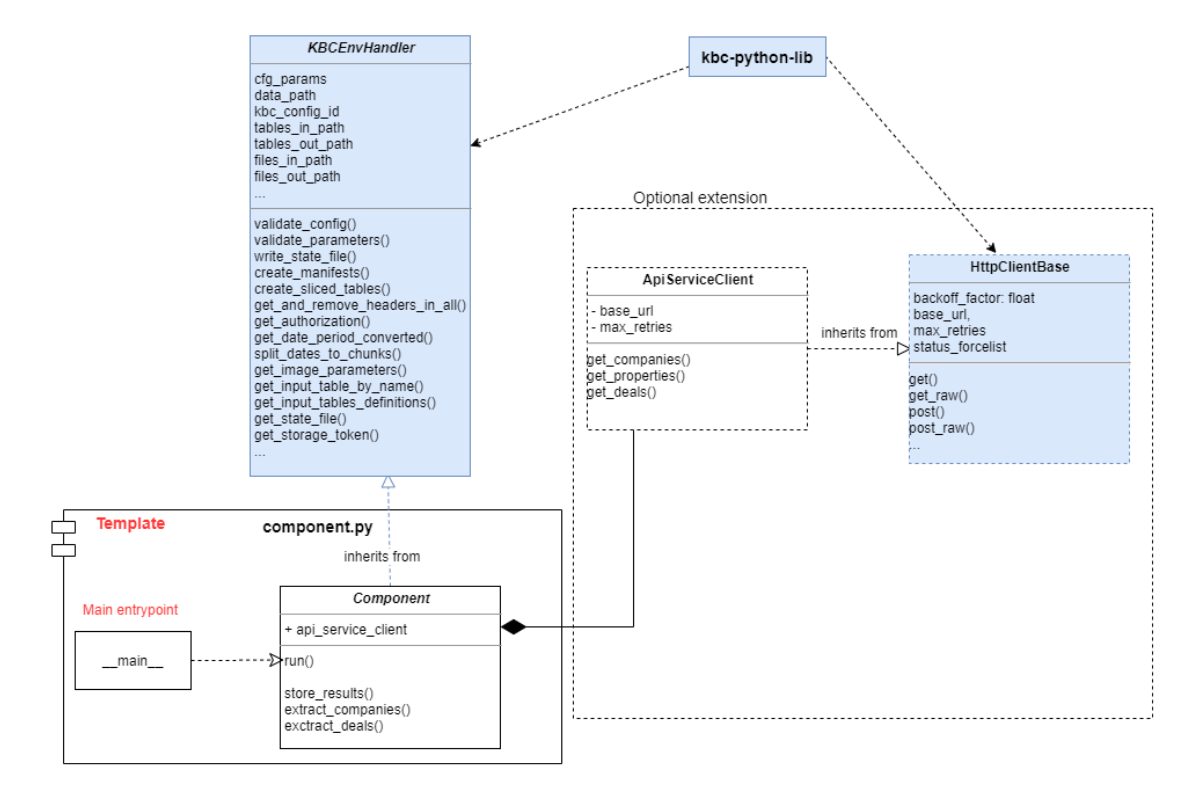
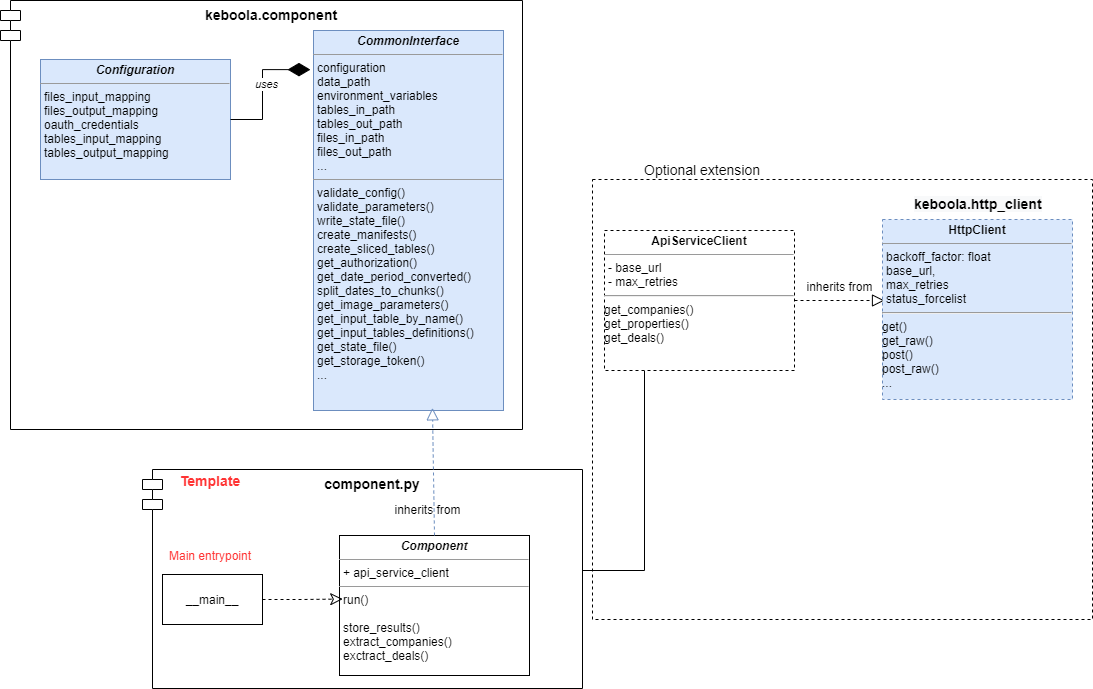
UPDATE readme

diff --git a/README.md b/README.md
@@ -4,42 +4,40 @@ Python template for KBC Component creation. Defines the default structure and al
 
 Use as a starting point when creating a new component.
 
-Example uses [keboola-python-util-lib](https://bitbucket.org/kds_consulting_team/keboola-python-util-lib/src/master/) library providing useful methods for KBC related tasks and boilerplate methods often needed by components, for more details see [documentation](https://bitbucket.org/kds_consulting_team/keboola-python-util-lib/src/master/README.md)
+Example uses [keboola.component](https://pypi.org/project/keboola.component) library providing useful methods for KBC related tasks 
+and boilerplate methods often needed by components, for more details see [documentation](https://github.com/keboola/python-component/blob/main/README.md)
+
+*NOTE: Previously the template was based on top of the deprecated [keboola-python-util-lib library](https://bitbucket.org/kds_consulting_team/keboola-python-util-lib/src/master/)*
 
 **Table of contents:**  
   
 [TOC]
 
 # Recommended component architecture
-It is recommended to use the [keboola-python-util-lib library](https://bitbucket.org/kds_consulting_team/keboola-python-util-lib/src/master/), 
+It is recommended to use the [keboola.component library](https://pypi.org/project/keboola.component), 
 for each component. Major advantage is that it reduces the boilerplate code replication, the developer can focus on core component logic 
 and not on boilerplate tasks. If anything is missing in the library, please fork and create a pull request with additional changes, 
 so we can all benefit from it
 
-**Base components on [KBCEnvHandler](https://bitbucket.org/kds_consulting_team/keboola-python-util-lib/src/master/docs/env_handler.md?at=master)**
+**Base components on [CommonInterface](https://htmlpreview.github.io/?https://raw.githubusercontent.com/keboola/python-component/main/docs/api-html/component/interface.html#keboola.component.interface.CommonInterface)**
 
 - No need to write configuration processing and validation code each time
 - No need to setup logging environment manually
 - No need to write code to store manifests, write statefile, retrieve dates based on relative period, and many more.
 - The main focus can be the core component logic, which increases the code readability for new comers.
 
-**Base Client on [HtttpClientBase](https://bitbucket.org/kds_consulting_team/keboola-python-util-lib/src/master/docs/client_base.md?at=master)**
+**Base Client on [HtttpClient](https://pypi.org/project/keboola.http-client/)**
 
 - No need to write HTTP request handling over and over again
 - Covers basic authentication, retry strategy, headers, default parameters
 
-**Process results using [result.py](https://bitbucket.org/kds_consulting_team/keboola-python-util-lib/src/master/docs/result.md?at=master) package**
-
-- No need to use pandas
-- Enables basic json response flattening
-- Fixed headers, user values and more useful functionality
 
 ## Architecture using the template
 
 ![picture](docs/imgs/architecture.png)
 
 ## Example component
-This template contains functional example of an [extractor component](https://bitbucket.org/kds_consulting_team/kbc-python-template/src/master/src/component.py), 
+This template contains functional example of an [hello-world component](https://bitbucket.org/kds_consulting_team/kbc-python-template/src/master/src/component.py), 
 it can be run with [sample configuration](https://bitbucket.org/kds_consulting_team/kbc-python-template/src/master/data/) and it produces valid results. 
 It is advisable to use this structure as a base for new components. Especially the `component.py` module, which should only 
 contain the base logic necessary for communication with KBC interface, processing parameters, collecting results
@@ -125,6 +123,13 @@ The template automatically chooses between STDOUT and GELF logger based on the D
 To fully leverage the benefits such as outputting the `Stack Trace` into the log event detail (available by clicking on the log event) 
 log exceptions using `logger.exception(ex)`.
 
+**TIP:** When the logger verbosity is set to `verbose` you may leverage `extra` fields to log the detailed message in the detail of the log event by adding extra fields to you messages:
+
+```python
+logging.error(f'{error}. See log detail for full query. ',
+                         extra={"failed_query": json.dumps(query)})
+```
+
 Recommended [GELF logger setup](https://developers.keboola.com/extend/common-interface/logging/#setting-up) (Developer Portal) to allow debug mode logging:
 
 ```json
@@ -133,7 +138,7 @@ Recommended [GELF logger setup](https://developers.keboola.com/extend/common-int
     "100": "normal",
     "200": "normal",
     "250": "normal",
-    "300": "normal",
+    "300": "verbose",
     "400": "verbose",
     "500": "camouflage",
     "550": "camouflage",
